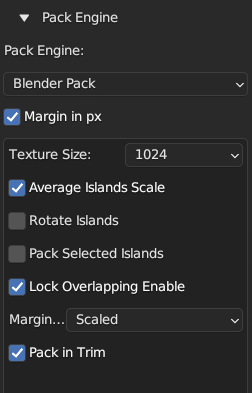
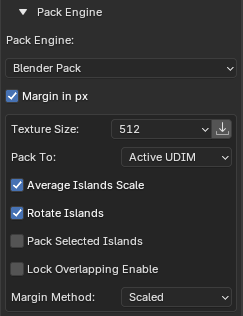
upd Pack article

diff --git a/mkdocs/pack.md b/mkdocs/pack.md
@@ -82,7 +82,7 @@ Get Islands UV Coverage by given settings.
 Zen UV supports three Pack engines:
 
 - **Blender Pack**
-- [**UV Packmaster 2, 3**](https://uvpackmaster.com)
+- [**UV Packmaster**](https://uvpackmaster.com)
 - [**UV Packer**](https://www.uv-packer.com/)
 
 !!! tip
@@ -167,11 +167,24 @@ More information you can find [**here**.](https://uvpackmaster.com/doc3/blender/
     Available only for UVPackmaster Pack Engine.
 
 ---
-#### Pack in Trim
-Pack Islands into Trim.
+#### Pack To
+
+Determines the target destination boundary where UV islands will be organized during a packing operation. 
+
+Instead of forcing all UVs into the default `0–1` UV space, **Pack To** allows you to route islands into specific sub-regions, such as inside or outside Trim Sheet frames, or into a targeted UDIM tile. This is essential for workflows that combine trim sheets with unique UVs, preventing packed geometry from overlapping dedicated trim regions or sending un-trimmed details directly into specific tile spaces.
 
 !!! Note
     Available only for Blender and UVPackmaster Pack Engine.
+
+| ![Pack To Dropdown Menu](img/screen/pack/pack_to_dropdown.png) |
+| :---: |
+| *Fig. 1. Pack To dropdown menu options* |
+
+- **Pack To** — Target region selector for UV packing operations:
+    - **Default** — Standard UV layout packing within the default `0–1` UV space.
+    - **Inside Trim** — Restricts UV islands strictly within the boundary of the active Trim.
+    - **Outside Trims** — Places UV islands into the remaining space outside active and selected Trim region(s), protecting existing trim assignments from overlaps.
+    - **Active UDIM** — Packs islands into the active UDIM image tile or the UDIM grid tile where the 2D Cursor is currently located.
 
 ![Pack_In_Trim](img/screen/pack/pack_in_trim.gif)
 
